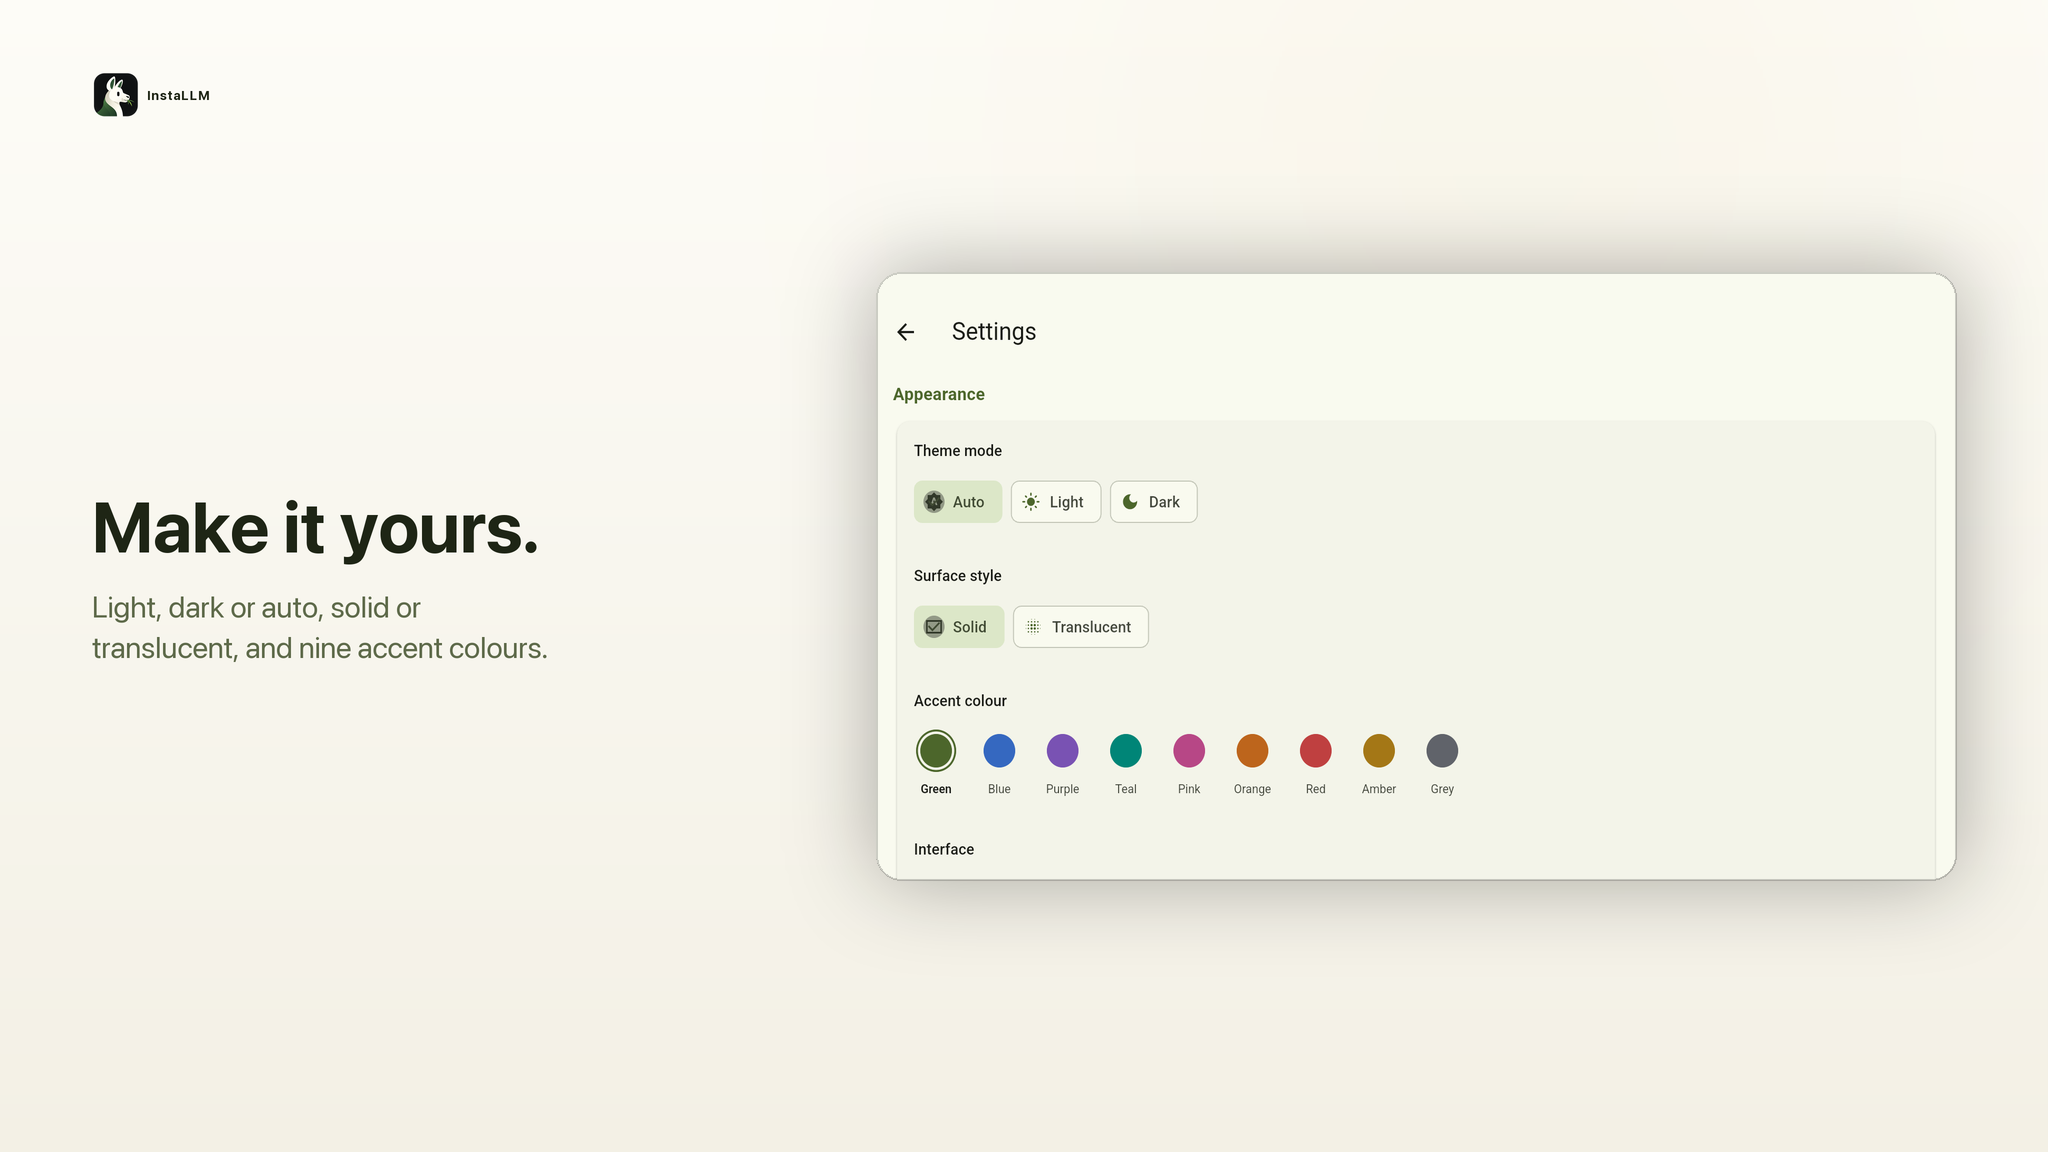
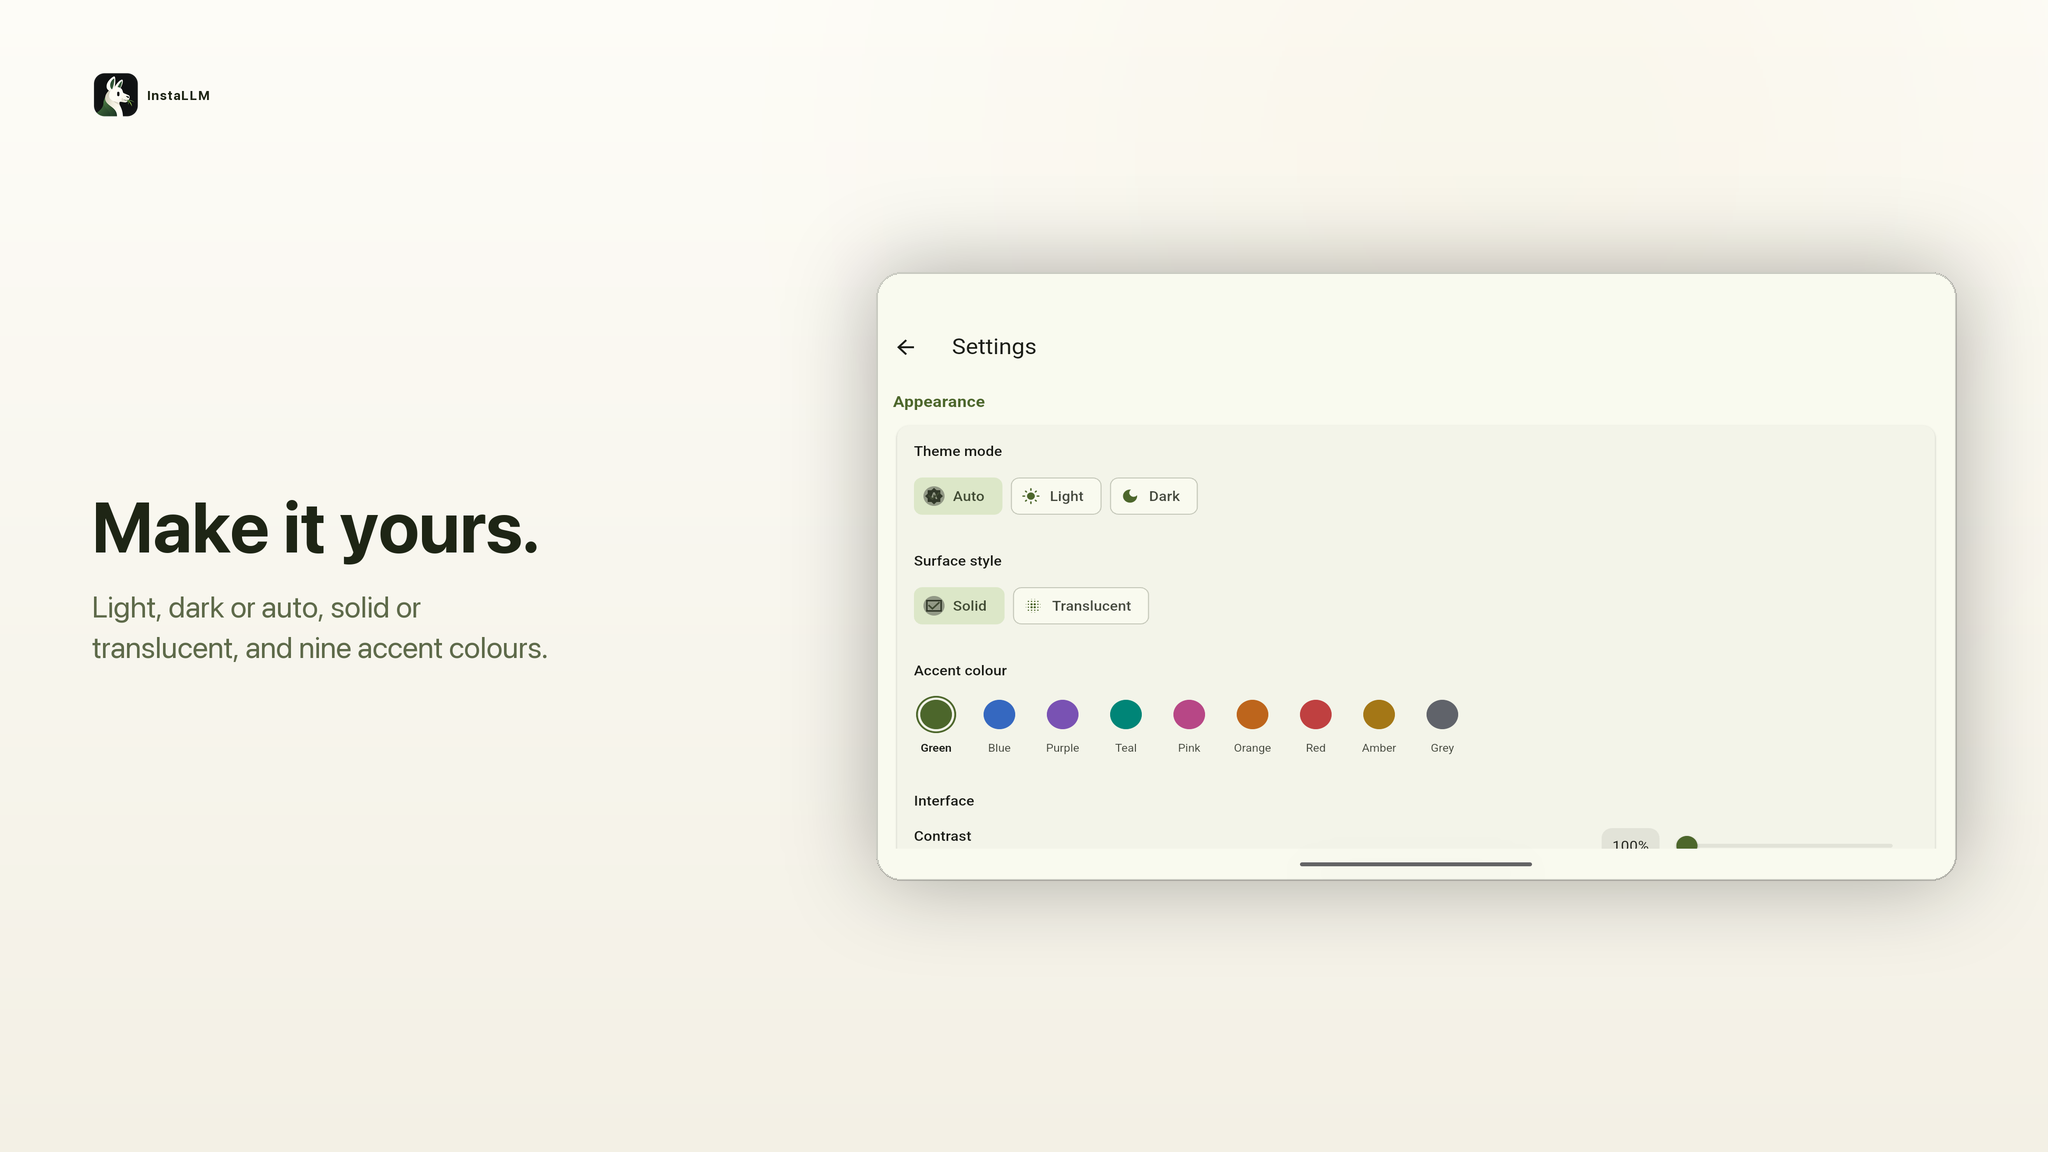
Refresh the store screenshots for 1.7.2 and record the release
The phone and 7-inch sets were retaken from the 1.7.2 build, so the listing shows the catalog list, the single model pill, the voice dock and the new model mark instead of the 1.7.1 screens. The changelog and the Play copy carry the 1.7.2 change set.

Changed region(s): [[0.4375, 0.4062, 0.7188, 0.75], [0.4375, 0.2812, 0.5, 0.375], [0.8125, 0.7188, 0.8438, 0.75]]

diff --git a/docs/play_store/README.md b/docs/play_store/README.md
@@ -23,13 +23,13 @@ still signs every release, and a lost upload key needs a Play Console reset.
 
 ## 2. Version
 
-`pubspec.yaml` holds `version: 1.7.1+5`. Play's highest version code is `3`
-(`1.6.2`) and it rejects a repeated one, so every upload bumps the number
-after `+`; the bundles built since then carry codes `4` (`1.7.0`) and `5`
-(`1.7.1`):
+`pubspec.yaml` holds `version: 1.7.2+6`. Play's highest version code is `5`
+(`1.7.1`) and it rejects a repeated one, so every upload bumps the number
+after `+`; the bundles built since then carry codes `3` (`1.6.2`), `4`
+(`1.7.0`), `5` (`1.7.1`) and `6` (`1.7.2`):
 
 ```yaml
-version: 1.7.1+5
+version: 1.7.2+6
 ```
 
 The name before `+` is what users see; the number after `+` is `versionCode`.
@@ -38,11 +38,23 @@ release from the next, so bump both.
 
 ## 3. Verified in this repository
 
-Checked on 26 November 2026 against the working tree that carries `1.7.1+5`
-(and on 23 November 2026 against `main` at `a8d69ad` for the earlier entry),
-built with `scripts/build_android_bundle.sh`:
+Checked on 27 November 2026 against the working tree that carries `1.7.2+6`
+(and on 26 November 2026 against the tree that carried `1.7.1+5`), built with
+`scripts/build_android_bundle.sh`:
 
 - Bundles built from this repository, all signed with the same upload key:
+  - `1.7.2+6` (versionCode 6), built on 27 November 2026 from `f024095`,
+    142 MB on disk (148,825,843 bytes; 143 MB as Gradle reports it), SHA-256
[1 lines of base64/hex data omitted]
+    `scripts/build_android_bundle.sh` exited 0 and `jarsigner -verify` prints
+    `jar verified.`; the sideload APK of the same build reports
+    `versionCode='6' versionName='1.7.2'`, `minSdkVersion 24`,
+    `targetSdkVersion 36` through `aapt2 dump badging`. This is the bundle
+    attached to GitHub release `v1.7.2`, with that APK, the macOS DMG (built
+    `1.7.2`/`6`) and the Linux archive. It carries the Hugging Face-style
+    model catalog, the single model/thinking pill, the voice dock and the
+    brain-in-chip model mark, and it fixes a tablet's filter column naming a
+    Mac.
   - `1.7.1+5` (versionCode 5), built on 26 November 2026 from `e994625`,
     142 MB on disk (148.6 MB as Gradle reports it), SHA-256
[1 lines of base64/hex data omitted]
@@ -113,12 +125,16 @@ built with `scripts/build_android_bundle.sh`:
   outside the launcher tile, with an 18 px clear margin; keeping the alpha is
   what stops the tile's antialiased edge from turning into a black band and
   green specks, which an RGB flatten produced, and
-  `feature_graphic_1024x500.png` is 1024x500 with no alpha channel. Phone
+  `feature_graphic_1024x500.png` is 1024x500 with no alpha channel.   Phone
   screenshots `screens/1.png` to `screens/6.png` are each 1080x2160 — 2:1, the
-  widest aspect Play accepts — retaken on 17 November 2026 on a OnePlus 7T
-  (HD1901, Android 12) in light theme, from a 1080x2400 capture with the status
-  and navigation bars cropped out. Order: 1 chat, 2 drawer, 3 models,
-  4 settings, 5 new chat, 6 voice mode.
+  widest aspect Play accepts — retaken on 27 November 2026 from `1.7.2+6` on a
+  OnePlus 7T (HD1901, Android 12), from a 1080x2400 capture with the status bar
+  and navigation bar cropped out (top 80 px, bottom 160 px). The phone draws a
+  three-pixel capture frame at the screen edge, so the first four columns at
+  each side are cloned inward before the crop. Order: 1 chat (a reply the
+  installed `LFM2 · 1.2B` wrote offline), 2 drawer, 3 models, 4 settings,
+  5 new chat, 6 voice mode. The theme is the phone's own: light, translucent
+  surface, Blue accent.
 - Framed art: `screens/framed/<device>/` holds the same captures as store
   artwork, rendered by `scripts/generate_store_art.py` at the store's exact
   sizes. Each panel carries the launcher tile and wordmark top-left, a
@@ -133,8 +149,22 @@ built with `scripts/build_android_bundle.sh`:
   empty and filled from the capture's own top edge, which keeps a drawer scrim
   or a sidebar seam running upward instead of stopping at the card edge. The
   script only needs Pillow and the fonts already on macOS.
+- The 7-inch set was retaken on 27 November 2026 from `1.7.2+6` on the same
+  TrebleDroid Android 13 tablet, forced to 2048x1200 at density 320: two shots,
+  the catalog with its filter column reading **This device** and settings. The
+  tablet has no model installed, so it still has no conversation to show. The
+  capture is cut at the status bar, given a 48 px band of the app's own page
+  colour and scaled to exact 16:9, because this tablet's app bar now starts
+  directly under the bar and the artwork's chrome strip stretches the capture's
+  first row.
+- **The 10-inch and desktop sets are still the 17 November 2026 captures.** They
+  were taken from a macOS window driven by hand, and this pass could not
+  re-create them: the window can be sized through System Events, but the app's
+  Flutter content exposes no accessibility tree, so navigation inside it would
+  need synthetic clicks, which this repository's agent rules forbid. Everything
+  below that describes those two sets therefore refers to the `1.7.1` UI.
 - Tablet and desktop sets, captured on 17 November 2026 in light theme with the
-  solid surface style: `screens/tablet_7inch/` is 2048x1152 (16:9) from the
+  solid surface style: `screens/tablet_7inch/` was 2048x1152 (16:9) from the
   TrebleDroid Android 13 tablet at 2048x1200, cropped by 48 px of status bar and
   64 px of gesture bar and scaled to exact 16:9 — two shots, home then settings,
   because that tablet has no model installed and cannot show a conversation;
@@ -238,8 +268,8 @@ Play review sheet cannot be observed until an install comes from Play.
    first and install from the Play link to confirm the bundle installs and the
    review prompt path resolves, then promote to production.
    - Release notes ("What's new in this release"): `release_notes.txt`, one
-     bullet per user-visible change for 1.7.1 — a 301/500-character block with
-     a 133-character variant below it, each heading carrying its own count.
+     bullet per user-visible change for 1.7.2 — a 320/500-character block with
+     a 154-character variant below it, each heading carrying its own count.
 5. **Promote Alpha to production** — a closed-testing release moves to
    production without rebuilding. Open **Test and release → Testing → Closed
    testing → Alpha → Releases**, open the release to publish and use **Promote
@@ -277,11 +307,13 @@ notes (`release_notes.txt`), the support email (`info@prady.website`), the
 published privacy policy URL (`https://prady.website/privacy/insta-llm/`), the
 1.6.0 bundle on closed testing (Alpha), the `1.6.1+2` bundle released on Play,
 the `1.6.2+3` bundle built from this tree, the `1.7.0+4` bundle built from it
-afterwards and the `1.7.1+5` bundle released on GitHub as `v1.7.1`.
+afterwards, the `1.7.1+5` bundle released on GitHub as `v1.7.1`, and the
+`1.7.2+6` bundle released on GitHub as `v1.7.2` with refreshed phone and
+7-inch screenshots.
 
 1. Add an in-app way to report offensive AI output, or record why the
    AI-generated content policy does not apply, before the production review.
-2. Upload the `1.7.1+5` bundle, then promote it to production (section 4,
+2. Upload the `1.7.2+6` bundle, then promote it to production (section 4,
    steps 4 and 5). Once that build is on a testing track, install it from the
    Play link and confirm the update prompt appears on the next launch against
    an even newer build.

diff --git a/CHANGELOG.md b/CHANGELOG.md
@@ -2,12 +2,42 @@
 
 All notable changes to this project will be documented in this file.
 
-## [Unreleased]
+## [1.7.2] - 2026-11-27
+
+### Added
+
+- **Liquid AI LFM2 and OpenBMB MiniCPM3 join the model catalog**: `LFM2 · 350M` (229 MB), `LFM2 · 1.2B` (731 MB) and `MiniCPM3 · 4B` (2.47 GB), all `Q4_K_M`, each with the file its repository actually serves.
+  - Every entry was probed before it shipped: the served byte count, the GGUF header's own architecture (`lfm2`, `lfm2`, `minicpm3`), its chat template and context window — then loaded and made to generate on the pinned `b11819` engine, still through the app's own `llama.framework`.
+  - No capability is claimed for the three, because their files declare none. Liquid AI **LFM3** and MiniCPM4 stay out until the runtime moves: LFM3 support landed upstream in `b11938`, after the pin.
+- **A question about what is on screen gets a floating composer** (`2fd0413`, `f4fd5c2`, `9f2bbed`): the assistant gesture opens the chat with the screen in the composer, and selecting text elsewhere can be answered in place.
+  - InstaLLM registers as a real assistant app, and a selection is no longer sent twice when the composer already holds it.
+- **Model fit exists on Android at all** (`c1f400f`): the device profile reads `/proc/meminfo` instead of the platform figures it could not see there.
 
 ### Changed
 
 - **The composer's model and thinking controls are one pill**: the pill reads `Qwen3.5 · 0.8B · off` with a single chevron, and the menu behind it lists every model and, under one divider, that model's thinking states as two segments.
   - The second chip is gone: `composer_reasoning_pill.dart` folded into `ComposerModelControl`, which reads the model's declared reasoning and the stored choice and hands plain values to the pill, so the widget stays testable without Riverpod.
+  - The states are named **Off** and **On** and sit at the menu's right edge, and a model that declares no reasoning has no thinking row at all (`ac6ac18`, `48ae1e6`).
+- **The model catalog is a Hugging Face-style list with its own pages** (`1f21a14`, `2bc308e`, `6ba913e`, `95ea99f`, `4805f92`, `5bc22da`, `606785a`, `f734441`, `c949404`, `3484403`, `d77f18b`, `a58ec6b`): one row per file in a family, unfolded in place for what the row cannot say, with the publisher and file size leading the facts line and the model in use marked by a filled circle rather than an Open button.
+  - A row's action is its glyph or a quiet accent label, a variant downloads from its own ledger row, and a tap selects an installed row but only unfolds a catalog one.
+  - The filter rails keep their ends and nest the chosen segment, and the narrow Models header keeps its way back (`2a0455c`, `f752cf2`, `eb1f4ae`, `3e28cee`).
+- **Voice mode's controls are one dock** (`a78f79b`, `9674699`, `6a32c35`, `5319e18`, `d2999c4`): the voice pill, its gear and the chat's own model menu sit together, and the model list expands in place instead of floating a menu, with the model row centred and no card around it.
+- **The local model is marked by a brain inside a chip** (`c661dec`): `LlmChipIcon` draws the die, its eight pins and a brain in a nested scaled canvas, so the mark reads at 18 px in the composer and 26 px in the drawer.
+- **A reply's Read aloud and Regenerate are outlined raised buttons** (`e824c58`, `b489d10`), hand-built from `Material` and `InkWell` because `IconButton` has no elevation, at 36×32 with the label left on the tooltip.
+- **Reading a reply aloud speaks only the answer, and the prompt carries today's date** (`f819558`): thought blocks are stripped before synthesis and the system prompt states the date, so "today" is not the model's guess.
+- **The tool contract only reaches models that can call tools** (`7b1eef8`): `supportsToolCalling` reads the model's own chat template, so a text-only model stops paying for instructions it cannot follow.
+- **Qwen rows download from Qwen's own GGUF releases** (`da940b1`): the catalog names the repository each Qwen file is actually served from instead of a mirror.
+- **The system bars follow the app theme** (`065cd61`), and the sidebar selects the active tab with the accent instead of a white chip (`64d1424`, `9549f67`, `01f830a`, `08c6678`, `805044b`).
+
+### Fixed
+
+- **A non-GGUF download such as a Whisper model is no longer refused** (`48b4e97`): the GGUF magic check applies only to files the catalog declares as GGUF.
+- **A phone's fit column shows one short word** (`b71e810`) instead of a badge clipped by the row.
+
+## [Unreleased]
+
+### Changed
+
 - **Every dependency is on its newest release, including four major migrations**: riverpod 2.6 → 3.4, go_router 13.2 → 18.1, freezed 2.5 → 4.0 and sherpa_onnx 1.13 → 2.0, among 83 upgraded packages.
   - Every controller moved off riverpod 2's `StateNotifier`/`StateProvider` onto `Notifier`, with `ref.mounted` and `ref.onDispose` replacing `mounted` and `dispose()`.
   - Riverpod 3's ten-attempt retry is switched off at the root `ProviderScope`, so a store that cannot open reports its error at once.
@@ -17,9 +47,6 @@ All notable changes to this project will be documented in this file.
 
 ### Added
 
-- **Liquid AI LFM2 and OpenBMB MiniCPM3 join the model catalog**: `LFM2 · 350M` (229 MB), `LFM2 · 1.2B` (731 MB) and `MiniCPM3 · 4B` (2.47 GB), all `Q4_K_M`, each with the file its repository actually serves.
-  - Every entry was probed before it shipped: the served byte count, the GGUF header's own architecture (`lfm2`, `lfm2`, `minicpm3`), its chat template and context window — then loaded and made to generate on the pinned `b11819` engine, still through the app's own `llama.framework`.
-  - No capability is claimed for the three, because their files declare none. Liquid AI **LFM3** and MiniCPM4 stay out until the runtime moves: LFM3 support landed upstream in `b11938`, after the pin.
 - **Road Map 2 complete: local agentic workspace (all phases, user-end testing left)**: InstaLLM is a project workspace, not just a chat runtime.
   - *Phase 2.0 workspaces*: a workspace links bots, chats, skills, MCP servers, boards, a vault folder and a repo path, and bots only see assigned workspaces.
   - *Phase 2.1 context intelligence*: a stored compaction policy, a live inspector, per-conversation checkpoints and message pins that survive windowing.
